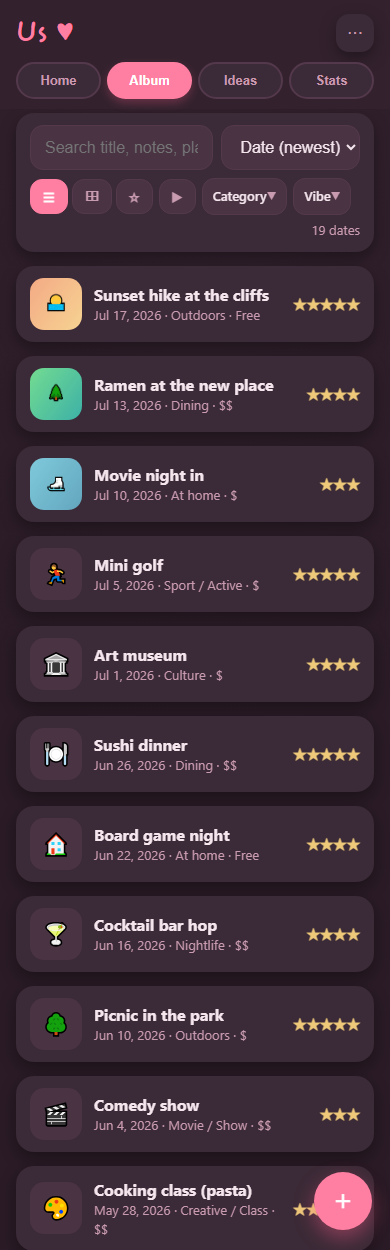
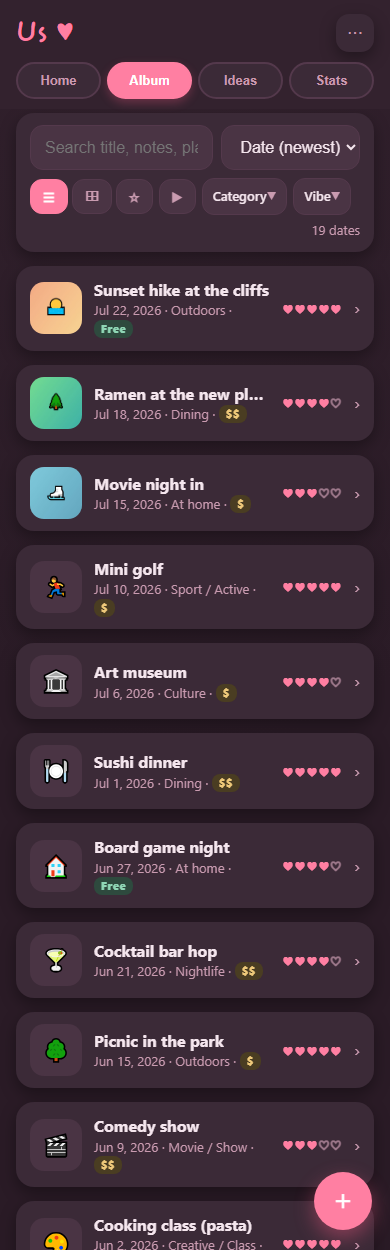
Implement unified date card everywhere; kill legacy star renders (LAUNCH_AUG1 sprint 2)
- hearts (never ★) on memory card, history rows/detail, vibes, repeat-worthy, category chart
- tier pill + ⚡ effort on history/wishlist/suggest/home caption (new tierPill/heartsHtml helpers)
- chevron on tappable rows; wishlist Remove -> corner ✕ + compact Log → row pill
- single-memory 'On this day · N years ago' header merge
- smoke test: new hearts/tier-pill check on history rows

diff --git a/js/ui.js b/js/ui.js
@@ -502,20 +502,22 @@ function renderHome() {
   const v = viewEl();
   const top = suggest(done(), { explore: 0.5 })[0];
   const memories = !memoryDismissed ? A.onThisDay(done()) : [];
+  const singleAgo = memories.length === 1
+    ? new Date().getFullYear() - new Date(entryTimeMs(memories[0])).getFullYear() : null;
   const memoryCard = memories.length ? `
     <section class="card memory-card">
       <div class="memory-header">
-        <span class="memory-title">On this day ✨</span>
+        <span class="memory-title">On this day${singleAgo !== null ? ` · ${singleAgo} year${singleAgo !== 1 ? "s" : ""} ago` : ""} ✨</span>
         <button class="memory-dismiss" id="memory-dismiss">✕</button>
       </div>
       ${memories.map(e => {
         const yearsAgo = new Date().getFullYear() - new Date(entryTimeMs(e)).getFullYear();
         return `<div class="memory-item">
-          <div class="memory-ago">${yearsAgo} year${yearsAgo !== 1 ? "s" : ""} ago</div>
+          ${singleAgo === null ? `<div class="memory-ago">${yearsAgo} year${yearsAgo !== 1 ? "s" : ""} ago</div>` : ""}
           <div class="entry" style="pointer-events:none">
             <div class="thumb">${catEmoji(e.category)}</div>
             <div class="meta"><h4>${escHtml(e.title)}</h4>
-              <div class="sub">${fmtDate(e.date)} · ${"★".repeat(e.enjoyment)}</div>
+              <div class="sub">${fmtDate(e.date)} · ${heartsHtml(e.enjoyment)}</div>
             </div>
           </div>
           ${e.capsule ? `<div class="capsule-memory">
@@ -865,7 +867,7 @@ async function renderList() {
     // one hearts sticker: my rating, else partner's, else the legacy enjoyment score
     const { lines } = resolveRatings(e);
     const r = lines.find(l => l.mine) || lines.find(l => !l.mine && l.name) || lines.find(l => l.key === null);
-    const cost = costBadge(e);
+    const cost = tierPill(e);
     return `
     <div class="card home-card" data-open="${escAttr(e.id)}">
       <div class="home-photos" data-photos="${escAttr((e.photos || []).join(","))}" data-cat="${escAttr(e.category)}"></div>
@@ -1106,11 +1108,11 @@ async function renderHistoryList() {
         <div class="thumb" data-thumb="${escAttr(e.photos?.[0] || "")}">${catEmoji(e.category)}</div>
         <div class="meta">
           <h4>${escHtml(e.title)}</h4>
-          <div class="sub">${fmtDate(e.date)} · ${catLabel(e.category)}${costBadge(e) ? " · " + costBadge(e) : ""}${isOpen && e.location ? " · 📍 " + escHtml(e.location) : ""}${e.durationMin ? " · " + fmtDuration(e.durationMin) : ""}</div>
+          <div class="sub">${fmtDate(e.date)} · ${catLabel(e.category)}${tierPill(e) ? " · " + tierPill(e) : ""}${isOpen && e.location ? " · 📍 " + escHtml(e.location) : ""}${e.durationMin ? " · " + fmtDuration(e.durationMin) : ""}</div>
         </div>
         ${isOpen
           ? `<button class="kebab" data-kebab="${escAttr(e.id)}">⋯</button>`
-          : `<div class="score">${"★".repeat(e.enjoyment)}</div>`}
+          : `<div class="score">${heartsHtml(e.enjoyment)}</div><span class="chev">›</span>`}
       </div>
       ${isOpen ? histDetail(e) : ""}
     </div>`;
@@ -1138,7 +1140,7 @@ function histDetail(e) {
     <div class="rate-line">
       ${l.initial === "★" ? "" : `<span class="who ${l.mine ? "me" : "them"}">${escHtml(l.initial)}</span>`}
       ${l.name ? `<span class="name">${escHtml(l.name)}</span>` : ""}
-      <span class="stars">${starStr(l.value)}</span>
+      <span class="stars">${heartsHtml(l.value)}</span>
     </div>`).join("");
   const rateInput = mineRated ? "" : `
     <div class="rate-line">
@@ -1256,18 +1258,16 @@ function renderWishlist(host, countEl) {
     return;
   }
   host.innerHTML = `<h3 class="section-title">Want to try (${ideas.length})</h3>` + ideas.map(e => `
-    <div class="card tight">
+    <div class="card tight" style="position:relative">
+      <button class="card-x" title="Remove" data-rmidea="${escAttr(e.id)}">✕</button>
       <div class="entry">
         <div class="thumb">${catEmoji(e.category)}</div>
         <div class="meta">
           <h4>${escHtml(e.title)}</h4>
-          <div class="sub">${catLabel(e.category)}${costBadge(e) ? " · " + costBadge(e) : ""}${e.effort ? " · effort " + "●".repeat(e.effort) + "○".repeat(5 - e.effort) : ""}</div>
+          <div class="sub">${catLabel(e.category)}${tierPill(e) ? " · " + tierPill(e) : ""}${e.effort ? " · " + "⚡".repeat(e.effort) : ""}</div>
           ${e.url ? `<a class="url-link" href="${escAttr(safeUrl(e.url))}" target="_blank" rel="noopener">🔗 ${escHtml(prettyUrl(e.url))}</a>` : ""}
         </div>
-      </div>
-      <div class="btn-row">
-        <button class="btn small" data-didit="${escAttr(e.id)}">We did it! Log it →</button>
-        <button class="btn ghost small" data-rmidea="${escAttr(e.id)}">Remove</button>
+        <button class="row-cta" data-didit="${escAttr(e.id)}">Log →</button>
       </div>
     </div>`).join("");
   host.querySelectorAll("[data-didit]").forEach(b => b.addEventListener("click", () => logIdea(b.dataset.didit)));
@@ -1412,7 +1412,7 @@ function renderInsights() {
       const topCat = m.topCategory ? catEmoji(m.topCategory) : "";
       return `<div class="vibe-row">
         <div class="emo">${opt?.emoji ?? "🎭"}</div>
-        <div class="meta2"><h4>${opt?.label ?? m.key}</h4><div class="sub">avg ${m.avgEnjoyment.toFixed(1)}★${topCat ? ` · ${topCat}` : ""}</div></div>
+        <div class="meta2"><h4>${opt?.label ?? m.key}</h4><div class="sub">avg ${m.avgEnjoyment.toFixed(1)}♥${topCat ? ` · ${topCat}` : ""}</div></div>
         <div class="bar"><div class="track"><div class="fill" style="width:${(m.count / maxCount) * 100}%"></div></div></div>
         <div class="n">${m.count}</div>
       </div>`;
@@ -1461,7 +1461,7 @@ function renderInsights() {
     <div class="card tight">${rep.map(r => `
       <div class="entry" style="padding:6px 0">
         <div class="thumb">${catEmoji(r.category)}</div>
-        <div class="meta"><h4>${escHtml(r.title)}</h4><div class="sub">${r.avgEnjoyment.toFixed(1)}★ · done ${r.count}×</div></div>
+        <div class="meta"><h4>${escHtml(r.title)}</h4><div class="sub">${r.avgEnjoyment.toFixed(1)}♥ · done ${r.count}×</div></div>
       </div>`).join("")}</div>
 
     <h3 class="section-title">Adventure balance</h3>
@@ -1555,8 +1555,8 @@ function renderSugCards(results) {
       <p class="sug-reason">${escHtml(r.reason)}</p>
       <div class="sug-meta">
         <span>${catLabel(r.category)}</span>
-        <span>${tierLabel(tierForCost(r.estCost))}</span>
-        <span>effort ${"●".repeat(r.effort)}${"○".repeat(5 - r.effort)}</span>
+        <span>${tierPill({ cost: r.estCost })}</span>
+        <span>${"⚡".repeat(r.effort)}</span>
       </div>
       <div class="sug-actions">
         ${isSaved
@@ -1907,8 +1907,6 @@ function relTime(ts) {
   return `${Math.floor(s / 86400)}d ago`;
 }
 
-function starStr(n) { return `<span class="star-on">${"★".repeat(n)}</span><span class="star-off">${"★".repeat(5 - n)}</span>`; }
-
 // ---------- small helpers ----------
 // ids are unique app-wide (form ids live in the log sheet, tab ids in #view)
 function bind(id, ev, fn) { const el = document.getElementById(id); if (el) el.addEventListener(ev, fn); }
@@ -1917,6 +1915,15 @@ function bind(id, ev, fn) { const el = document.getElementById(id); if (el) el.a
 function costBadge(e) {
   const key = e.costTier || tierForCost(e.cost);
   return key ? tierLabel(key) : "";
+}
+// cost tier as the pill component (design/sprint1-cost-card.html frame 3)
+function tierPill(e) {
+  const key = e.costTier || tierForCost(e.cost);
+  return key ? `<span class="tier-pill${key === "free" ? " free" : ""}">${tierLabel(key)}</span>` : "";
+}
+// rating as hearts (♥ filled, ♡ unfilled) — never ★
+function heartsHtml(n) {
+  return `<span class="hearts">${"♥".repeat(n)}<span class="off">${"♡".repeat(5 - n)}</span></span>`;
 }
 function setOn(nodes, active) { nodes.forEach(n => n.classList.toggle("on", n === active)); }
 

diff --git a/css/styles.css b/css/styles.css
@@ -208,6 +208,9 @@ input:focus, textarea:focus, select:focus { outline: 2px solid var(--accent); bo
 .tier-pill.free { background: var(--mint-bg); color: var(--mint-fg); }
 .hearts { color: var(--accent); font-weight: 800; letter-spacing: 1px; }
 .hearts .off { color: var(--muted); opacity: .7; }
+.chev { color: var(--muted); font-size: 18px; flex: none; }
+.row-cta { flex: none; background: var(--accent); color: #fff; border: none; border-radius: 999px; font-size: 12.5px; font-weight: 800; padding: 8px 14px; cursor: pointer; }
+.card-x { position: absolute; top: 8px; right: 10px; background: none; border: none; color: var(--muted); font-size: 14px; cursor: pointer; padding: 4px; }
 
 /* Stats grid */
 .stat-grid { display: grid; grid-template-columns: repeat(2, 1fr); gap: 12px; }

diff --git a/js/charts.js b/js/charts.js
@@ -4,7 +4,7 @@
 const esc = s => String(s).replace(/[<>&]/g, c => ({ "<": "&lt;", ">": "&gt;", "&": "&amp;" }[c]));
 
 // Horizontal bar chart for category enjoyment (value scale 0..5).
-export function barChart(rows, { max = 5, unit = "★" } = {}) {
+export function barChart(rows, { max = 5, unit = "♥" } = {}) {
   if (!rows.length) return emptySvg("No data yet");
   const W = 320, rowH = 34, padL = 96, padR = 40, top = 8;
   const H = top * 2 + rows.length * rowH;